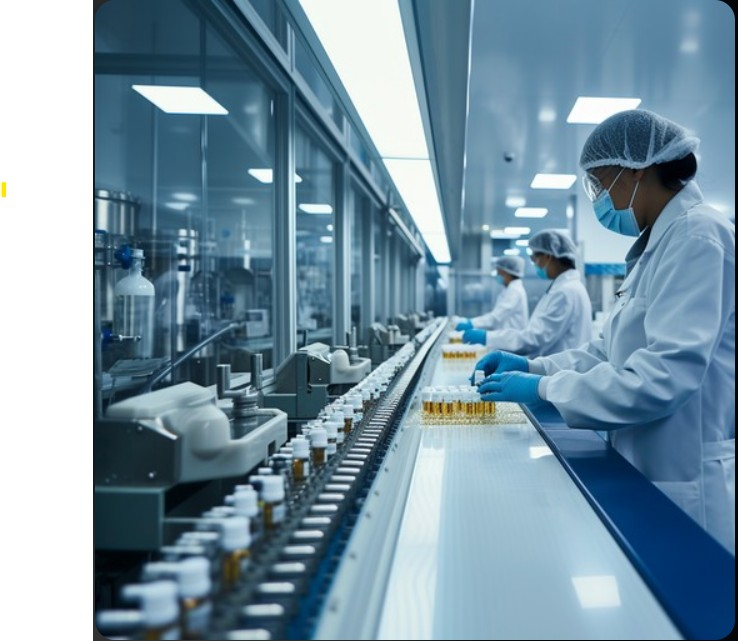
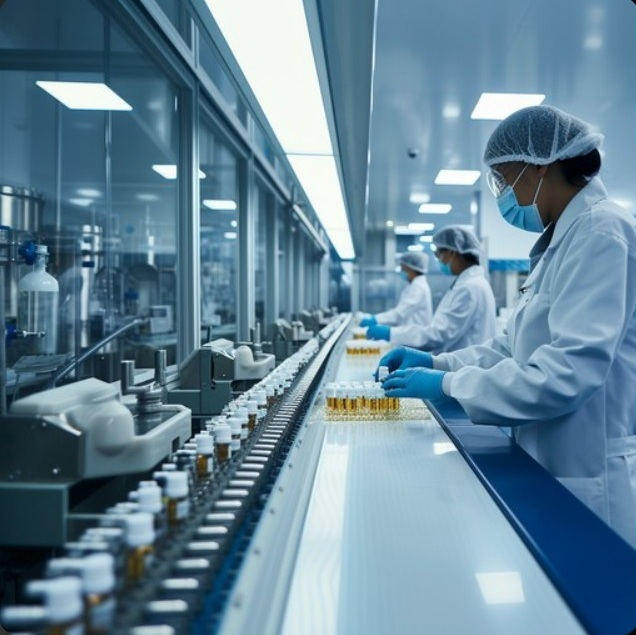
image changes

diff --git a/app/quality/page.tsx b/app/quality/page.tsx
@@ -30,7 +30,7 @@ export default function QualityPage() {
         <div className="grid items-center gap-12 lg:grid-cols-2">
           <div className="grid grid-cols-2 gap-4">
             <div className="overflow-hidden rounded-2xl shadow-md ring-1 ring-border">
-              <div className="relative aspect-[3/4] w-full">
+              <div className="relative aspect-[3/4.3] w-full">
                 <Image src="/lab/lab-3.jpg" alt="Quality inspection on production line" fill sizes="25vw" className="object-cover" />
               </div>
             </div>
